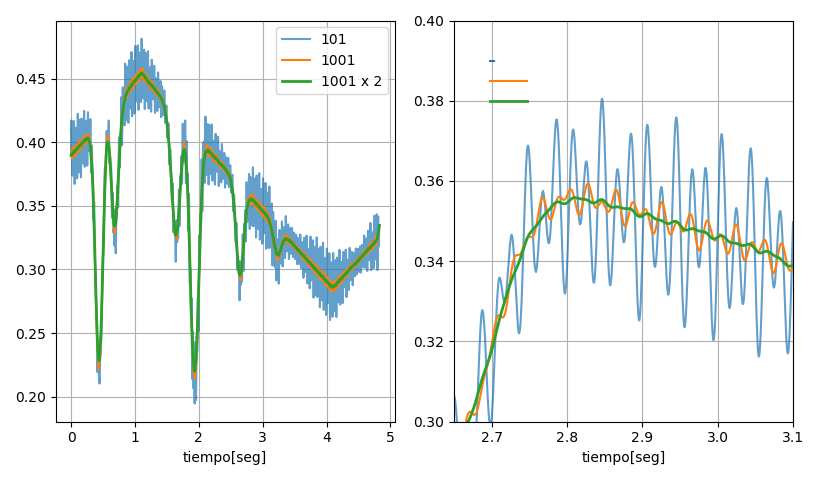
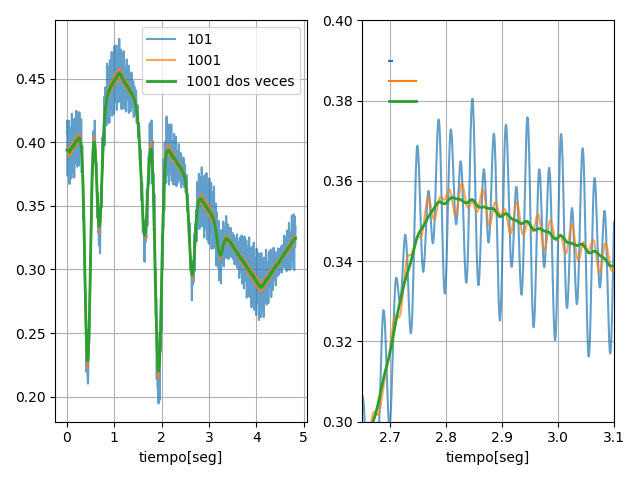
mejorar de fourier

diff --git a/tuto/labo2/04_herramientas.md b/tuto/labo2/04_herramientas.md
@@ -21,6 +21,9 @@ navbar: labo2
 Ejemplo de datos frabricados:
 
 ```python
+from numpy import *
+import matplotlib.pyplot as plt
+
 random.seed(1024)
 
 # Simulamos una frecuencia base de 10 Hz
@@ -48,6 +51,10 @@ plt.title('Muestra en el dominio temporal de la señal')
 
 
 ```python
+from numpy import *
+import matplotlib.pyplot as plt
+
+
 # Para poder construir el eje de frecuencias de la transformada de Fourier hace
 # falta:
 #  - Tener los datos en tiempos equi-espaciados
@@ -57,18 +64,28 @@ t_step = mean(diff(t))
 
 # Nos sirve saber el largo del vector temporal
 N      = len(y1)
+
 ii     = arange(N)
 
 # Este factor de normalización corrige artificios de cálculo, debido a que
 # la FFT no es un implementación completa de la Transformada de Fourier.
-Norma  = sinc(ii/N) * exp(-1j*ii*pi/N)  * 2/N
+Norma  =  exp(-1j*ii[0:N//2]*pi/N)  * 2/N
+
+# Notar que, si no nos interesa la fase, lo único relevante de la Norma
+# es el factor 2/N
+
+Norma  = 2/N
+
 
 # Calculamos la transformada
-Y1     = fft.rfft( y1 )[0:N//2] * Norma[0:N//2]
+Y1     = fft.rfft( y1 )[0:N//2] * Norma
 ff     = fft.fftfreq( N , d=t_step  )[0:N//2]
 
-# Graficamos el valor absoluto en escala lograrítmica
 
+#  la expresión [0:N//2] es para quedarnos sólo con el semieje positivo de frecuencias
+
+
+# Graficamos el valor absoluto en escala lograrítmica
 plt.figure(2)
 plt.plot( ff , abs(Y1)  , '.-' , alpha=0.5 )
 plt.semilogy()
@@ -93,6 +110,9 @@ plt.tight_layout()
 Datos: [espectro.npz](espectro.npz)
 
 ```python
+from numpy import *
+import matplotlib.pyplot as plt
+
 # Cargamos los datos
 datos = load('espectro.npz')
 
@@ -119,9 +139,9 @@ y1     = medicion
 t_step = mean(diff(t))
 N      = len(y1)
 ii     = arange(N)
-Norma  = sinc(ii/N) * exp(-1j*ii*pi/N)  * 2/N
+Norma  = exp(-1j*ii[0:N//2]*pi/N)  * 2/N
 
-Y1     = fft.rfft( y1 )[0:N//2] * Norma[0:N//2]
+Y1     = fft.rfft( y1 )[0:N//2] * Norma
 ff     = fft.fftfreq( N , d=t_step  )[0:N//2]
 
 plt.subplot(1,2,1)
@@ -154,22 +174,33 @@ plt.tight_layout()
 ![grafico](03_04_datos_FFT.png "grafico")
 
 ```python
-
-# El filtro más básico, aplicar la media movil:
-# se reemplaza cada punto por el promedio de N puntos. Ejemplo, si N=11
-# cada punto es reemplazado por el promedio de si mismo, los 5 anteriores
-# y los 5 siguientes.
-
-# Usando el mismo nombre que en Matlba y Octave, llamamos a esta función smooth
-
-def smooth(x, window_len=11, window='hanning'):
-    s=r_[2*x[0]-array(x[window_len:1:-1]), x, 2*x[-1]-array(x[-1:-window_len:-1])]
-    w = ones(window_len,'d')
-    y = convolve(w/w.sum(), s, mode='same')
-    return y[window_len-1:-window_len+1]
+from numpy import *
+import matplotlib.pyplot as plt
+from scipy.signal import savgol_filter as savgol
 
 
-# Aplicamos smooth con promediado de 101 puntos y de 1001 puntos
+
+#    La función savgol_filter permite implementar filtros de interpolación polinómica
+#    
+#    savgol( x , window_length , polyorder )
+#    
+#    savgol hace el siguiente procedimiento de aproximación:
+#        - Para cada punto toma una ventana de datos de largo: "window_length" (que siempre es impar)
+#          Por ejemplo, si window_length=7 , va a tomar los 3 datos anteriores y los 3 siguientes
+#        - En esa ventana va a ajustar los datos por un polinomio de orden: "polyorder"
+#        - Luego, devuelve el valor que tiene ese punto según esa función ajustada.
+#    
+#    Con esto podemos implementar varios tipos de filtros. Por ejemplo, el filtro de media movil.
+#    Esto es, reemplazar cada punto por el promedio de los N vecinos. En ese caso, es un
+#    polinomio de orden 0.
+#    
+#    
+#    Si queremos 10 vecinos (5 antes, 5 despues) sería aplicar:   
+#        savgol( datos, 11 , 0 )
+#    
+
+
+# Aplicamos filtros con promediado de 101 puntos y de 1001 puntos
 
 print('Promedio de  101 pts equivale a: {:5.4f} segundos'.format( tiempo[101] -tiempo[0] ) )
 print('Promedio de 1001 pts equivale a: {:5.4f} segundos'.format( tiempo[1001]-tiempo[0] ) )
@@ -177,24 +208,32 @@ print('Promedio de 1001 pts equivale a: {:5.4f} segundos'.format( tiempo[1001]-t
 # Promedio de  101 pts equivale a: 0.0049 segundos
 # Promedio de 1001 pts equivale a: 0.0483 segundos
 
+# En cada filtro ESTAMOS ELIMINANDO (atenunado en realidad) LA INFORMACIÓN
+# DE TIEMPOS MAS RÁPIDOS QUE LA CANTIDAD DE SEGUNDOS MENCIONADA!!
+
 plt.figure(4)
 plt.subplot(1,2,1)
-plt.plot(tiempo , smooth(medicion,101)  , alpha=0.7 , label='101')
-plt.plot(tiempo , smooth(medicion,1001) , label='1001')
-plt.plot(tiempo , smooth(smooth(medicion,1001),1001) , linewidth=2, label='1001 x 2')
+
+# Los datos para cada valor de filtro
+plt.plot(tiempo , savgol(medicion,101,0)                 , label='101'            , alpha=0.7 )
+plt.plot(tiempo , savgol(medicion,1001,0)                , label='1001'           , alpha=0.7)
+plt.plot(tiempo , savgol(savgol(medicion,1001,0),1001,0) , label='1001 dos veces' , linewidth=2)
 plt.legend()
 plt.grid(b=True)
 plt.xlabel('tiempo[seg]')
 
 plt.subplot(1,2,2)
-plt.plot(tiempo , smooth(medicion,101)  , alpha=0.7 , color='C0')
+
+# Lo mismo pero con zoom
+plt.plot(tiempo , savgol(medicion,101,0)                 , label='101'            , alpha=0.7 )
+plt.plot(tiempo , savgol(medicion,1001,0)                , label='1001'           , alpha=0.7)
+plt.plot(tiempo , savgol(savgol(medicion,1001,0),1001,0) , label='1001 dos veces' , linewidth=2)
+
+# Referencia visual de los intervalos temporales de los filtros
 plt.plot(tiempo[55899:56000] , 0.39*ones(101)  , color='C0')
-
-plt.plot(tiempo , smooth(medicion,1001)  , color='C1')
 plt.plot(tiempo[55899:56900] , 0.385*ones(1001) , color='C1')
-
-plt.plot(tiempo , smooth(smooth(medicion,1001),1001) , linewidth=2 , color='C2')
 plt.plot(tiempo[55899:56900] , 0.38*ones(1001)  , color='C2' , linewidth=2)
+
 
 plt.xlim(2.65,3.1)
 plt.ylim(0.3,0.4)
@@ -207,6 +246,74 @@ plt.tight_layout()
 ```
 ![grafico](03_05_smooth.png "grafico")
 
+
+
+
+```python
+from numpy import *
+import matplotlib.pyplot as plt
+from scipy.signal import savgol_filter as savgol
+
+# Comparación de los datos filtrados con los originales
+
+datos    = load('espectro.npz')
+tiempo   = datos['tiempo']
+medicion = datos['medicion']
+
+# Y los graficamos
+plt.figure(1)
+
+
+filtro_A  = savgol(savgol( medicion ,  1001 , 0 ) , 1001, 0)
+filtro_B  = savgol( medicion ,  3001 , 0 )
+
+vectores = [medicion, filtro_A , filtro_B ]
+nombres  = ['Datos originales', 'Filtro A' , 'Filtro B' ]
+
+
+# Dominio temporal ------------------------------------------------------------
+plt.subplot(1,2,1)
+
+for jj, vector in enumerate(vectores):
+    plt.plot(tiempo , vector , label=nombres[jj], alpha=0.7)
+
+plt.title('Dominio Temporal')
+plt.xlabel('tiempo [seg]')
+plt.ylabel('amplitud [V]')
+plt.grid(b=True,linestyle='--',color='lightgray')
+plt.tight_layout()
+plt.legend()
+
+# Fourier ---------------------------------------------------------------------
+plt.subplot(1,2,2)
+
+for jj, vector in enumerate(vectores):
+    t      = tiempo
+    y1     = vector
+    t_step = mean(diff(t))
+    N      = len(y1)
+    ii     = arange(N)
+    Norma  = 2/N
+
+    Y1     = fft.rfft( y1 )[0:N//2] * Norma
+    ff     = fft.fftfreq( N , d=t_step  )[0:N//2]
+
+    plt.plot( ff , abs(Y1)  , '-' , alpha=0.7 , label=nombres[jj])
+
+plt.semilogy()
+plt.ylabel('Amplitud')
+#plt.semilogx()
+plt.xlim(20,60)
+plt.ylim(5e-5,1e-2)
+plt.xlabel('Frecuencia [Hz]')
+
+plt.title('Dominio de frecuencias')
+plt.grid(b=True,linestyle='--',color='lightgray')
+plt.tight_layout()
+# plt.savefig('03_05_comparacion.png')
+```
+
+![grafico](03_05_comparacion.png "grafico")
 
 
 ```python
